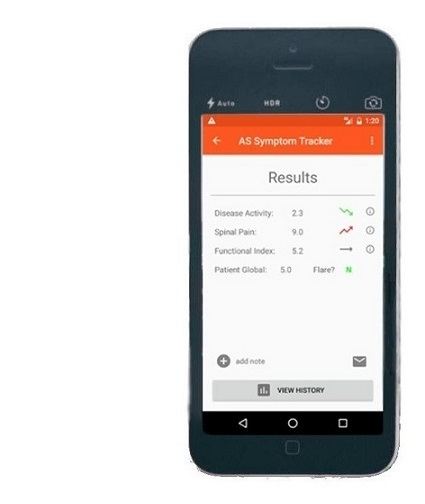
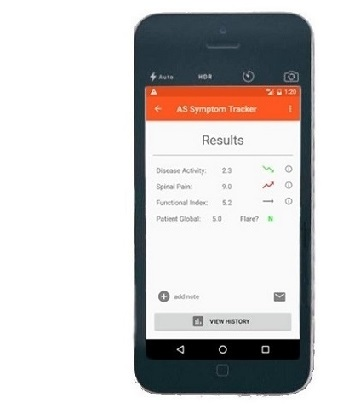
.

diff --git a/HelixTech/Public/asstAPI/Views/index.html b/HelixTech/Public/asstAPI/Views/index.html
@@ -80,7 +80,7 @@
 			<header class="w3-display-container w3-center">
 					<button class="w3-button w3-block w3-green w3-hide-large w3-hide-medium" onclick="document.getElementById('download').style.display='block'">Download <i class="fa fa-android"></i> <i class="fa fa-apple"></i> <i class="fa fa-windows"></i></button>
 					<div class="mySlides w3-animate-opacity">
-						<img class="w3-image" src="/w3images/app2.jpg" alt="Image 1" style="min-width:350px" width="750" height="1125">
+						<img class="w3-image" src="/w3images/app2.jpg" alt="Image 1" style="min-width:350px" width="700" height="1050">
 						<div class="w3-display-left w3-padding w3-hide-small" style="width:35%">
 						<div class="w3-black w3-opacity w3-hover-opacity-off w3-padding-large w3-round-large">
 							<h1 class="w3-xlarge">Welcome to the Ankylosing Spondylitis Symptom Tracker</h1>
